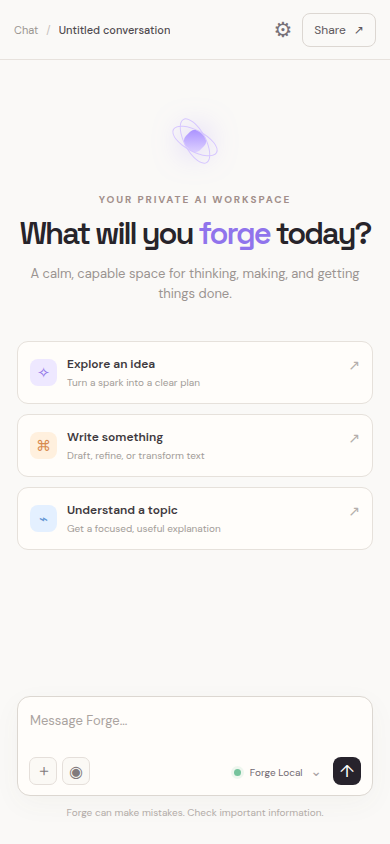
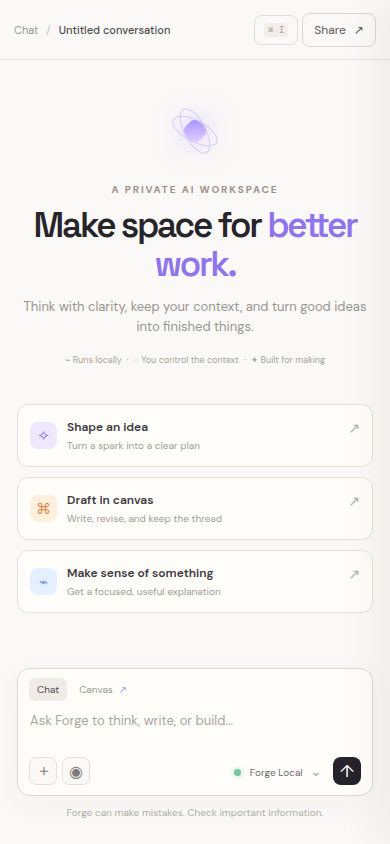
Build workspace-first Forge UX

diff --git a/styles.css b/styles.css
@@ -1,1 +1,4 @@
 :root{--ink:#16151a;--ink-soft:#3e393f;--muted:#8d8785;--line:#e7e2dd;--paper:#faf9f7;--card:#fffdfa;--panel:#242228;--panel-2:#2c2931;--accent:#a58bff;--accent-deep:#8b6fe5;--green:#75c39c;--ease:cubic-bezier(.2,.8,.2,1)}*{box-sizing:border-box}html{background:var(--paper)}body{margin:0;background:var(--paper);color:var(--ink);font-family:'DM Sans',sans-serif;-webkit-font-smoothing:antialiased}button,textarea{font:inherit}button{appearance:none}.app-shell{display:flex;min-height:100vh}.sidebar{width:264px;flex:0 0 264px;background:var(--panel);color:#f4f1f6;padding:22px 14px 16px;display:flex;flex-direction:column}.brand-row{display:flex;align-items:center;gap:10px;padding:0 11px 23px}.brand-name{font-family:'Space Grotesk',sans-serif;font-size:20px;font-weight:700;letter-spacing:-.05em}.brand-badge{font-size:9px;letter-spacing:.12em;color:#9d96a7;border:1px solid #514c59;border-radius:5px;padding:3px 5px;margin-left:auto}.forge-mark{height:25px;width:25px;display:flex;align-items:flex-end;gap:3px}.forge-mark span{display:block;width:6px;border-radius:5px;background:linear-gradient(#d6caff,#8064df)}.forge-mark span:nth-child(1){height:14px}.forge-mark span:nth-child(2){height:23px}.forge-mark span:nth-child(3){height:18px}.new-chat{width:100%;border:1px solid #514c59;background:#302c37;color:#faf8ff;border-radius:9px;padding:11px 12px;text-align:left;font-size:13px;cursor:pointer;box-shadow:0 4px 15px #15141a44;transition:background .18s,transform .18s,border-color .18s}.new-chat:hover{background:#393440;border-color:#6a6275}.new-chat:active{transform:scale(.985)}.plus{font-size:18px;line-height:0;margin-right:8px;color:#cdbdff}.new-chat kbd{float:right;background:#48434d;border:1px solid #5b5563;color:#beb7c8;border-radius:4px;padding:2px 5px;font-size:10px}.side-section{padding:25px 5px 0}.section-label{color:#817b89;text-transform:uppercase;letter-spacing:.13em;font-size:10px;margin:0 8px 9px}.nav-item,.thread-item{width:100%;border:0;background:transparent;color:#aaa4b0;display:flex;align-items:center;gap:10px;text-align:left;border-radius:7px;padding:9px 9px;font-size:13px;cursor:pointer;transition:background .18s,color .18s}.nav-item.active,.nav-item:hover,.thread-item:hover{background:#34303b;color:#fff}.nav-icon{width:18px;color:#b6a2fa;text-align:center;font-size:15px}.nav-count{margin-left:auto;color:#938d9c;font-size:11px}.recent-section{padding-top:27px}.thread-item{font-size:12px;color:#98929e;gap:8px}.thread-title{overflow:hidden;text-overflow:ellipsis;white-space:nowrap}.thread-item.selected{color:#eee9f3}.thread-dot{height:6px;width:6px;flex:0 0 6px;border-radius:50%;background:var(--accent);box-shadow:0 0 0 3px #a58bff1a}.thread-dot.dim{background:#686270;box-shadow:none}.sidebar-bottom{margin-top:auto}.usage-card{padding:13px;margin:0 2px 13px;border:1px solid #3e3945;background:#2a2730;border-radius:9px}.usage-top{display:flex;justify-content:space-between;color:#beb7c8;font-size:11px}.usage-bar{height:5px;background:#44404b;border-radius:8px;margin:9px 0 8px;overflow:hidden}.usage-bar i{display:block;width:18%;height:100%;background:linear-gradient(90deg,#a58bff,#c4b6ff);border-radius:8px}.usage-card small{color:#817b89;font-size:10px}.account{width:100%;border:0;background:transparent;color:#f7f3fa;display:flex;align-items:center;text-align:left;gap:9px;padding:8px;border-radius:8px;cursor:pointer}.account:hover{background:#302d37}.avatar{display:grid;place-items:center;width:28px;height:28px;border-radius:8px;background:#e3d8ff;color:#4d3a79;font-size:10px;font-weight:700}.account strong,.account small{display:block}.account strong{font-size:12px;font-weight:500}.account small{color:#827b8a;font-size:10px;margin-top:2px}.more{margin-left:auto;color:#898290;font-size:11px;letter-spacing:2px}.main-panel{flex:1;min-width:0;background:var(--paper)}.topbar{height:70px;border-bottom:1px solid var(--line);display:flex;align-items:center;justify-content:space-between;padding:0 32px}.breadcrumbs{display:flex;gap:11px;align-items:center;min-width:0;color:#9b9692;font-size:12px}.breadcrumbs strong{font-weight:500;color:#504b50;white-space:nowrap;overflow:hidden;text-overflow:ellipsis}.crumb-separator{color:#c6c0bb}.saved-state{display:inline-flex;align-items:center;gap:5px;color:#b0aaa5;font-size:10px;margin-left:5px;white-space:nowrap}.saved-dot{width:5px;height:5px;border-radius:50%;background:var(--green);box-shadow:0 0 0 3px #75c39c1d}.top-actions{display:flex;align-items:center;gap:7px}.icon-button,.share-button{border:0;background:transparent;color:#777178;cursor:pointer;transition:background .18s,color .18s}.icon-button{font-size:21px;width:31px;height:31px;border-radius:8px}.icon-button:hover{background:#ece9e4;color:#403a40}.share-button{margin-left:8px;border:1px solid #dcd7d2;border-radius:8px;padding:8px 11px;color:#5e585d;font-size:12px}.share-button:hover{background:#fffdfa;border-color:#bdb4ac}.share-button span{margin-left:5px}.chat-stage{max-width:920px;margin:0 auto;padding:98px 40px 42px;min-height:calc(100vh - 70px);display:flex;flex-direction:column;transition:max-width .3s var(--ease)}.welcome-block{text-align:center;transition:opacity .25s,transform .35s var(--ease)}.orbital-mark{width:58px;height:58px;margin:0 auto 23px;position:relative;display:grid;place-items:center}.orb-core{width:20px;height:20px;border-radius:7px;background:linear-gradient(135deg,#a58bff,#e4d9ff);box-shadow:0 0 30px #a58bff99;transform:rotate(45deg)}.orb-ring{position:absolute;border:1px solid #d5c5ff;border-radius:50%;transform:rotate(-28deg)}.ring-one{height:50px;width:22px}.ring-two{height:22px;width:50px;transform:rotate(28deg)}.eyebrow{margin:0 0 10px;color:#a18e8a;font-size:10px;letter-spacing:.19em;font-weight:700}.welcome-block h1{font-family:'Space Grotesk',sans-serif;font-size:43px;letter-spacing:-.065em;margin:0;color:#27242a;font-weight:600}.welcome-block h1 em{font-style:normal;color:#9074ec}.subcopy{font-size:14px;color:#9a9491;margin:14px 0 0}.starter-grid{display:grid;grid-template-columns:repeat(3,1fr);gap:11px;margin-top:55px;transition:opacity .25s,transform .35s var(--ease)}.starter-card{border:1px solid #e6e1db;background:var(--card);border-radius:11px;padding:15px 13px;display:flex;align-items:center;gap:10px;text-align:left;cursor:pointer;transition:transform .18s var(--ease),box-shadow .18s,border-color .18s,background .18s}.starter-card:hover{transform:translateY(-2px);border-color:#cbbaf7;box-shadow:0 10px 22px #443c2e0a;background:#fff}.starter-card:active{transform:translateY(0) scale(.99)}.starter-card strong,.starter-card small{display:block}.starter-card strong{font-size:12px;color:#3e393e;font-weight:600}.starter-card small{font-size:10px;color:#a29c98;margin-top:4px;line-height:1.3}.card-icon{width:27px;height:27px;border-radius:8px;display:grid;place-items:center;font-size:15px;flex:none}.violet{background:#eee8ff;color:#8f72e8}.amber{background:#fff0de;color:#d88b4f}.blue{background:#e4f0ff;color:#6597d5}.arrow{color:#b5afac;margin-left:auto;font-size:14px;align-self:flex-start}.conversation{display:none;flex-direction:column;gap:25px;max-width:760px;width:100%;margin:0 auto 22px;padding-top:20px}.chat-stage.has-messages{padding-top:42px}.chat-stage.has-messages .welcome-block,.chat-stage.has-messages .starter-grid{display:none}.chat-stage.has-messages .conversation{display:flex}.message{display:flex;gap:12px;animation:rise .32s var(--ease) both}.message.user{justify-content:flex-end}.message-avatar{width:28px;height:28px;flex:0 0 28px;border-radius:9px;display:grid;place-items:center;font-size:10px;font-weight:700}.message-avatar.forge{background:#eee8ff;color:#7d62d7}.message-avatar.user{background:#e3d8ff;color:#4d3a79;order:2}.message-body{max-width:75%;font-size:14px;line-height:1.6;color:#454047}.user .message-body{background:#27232c;color:#fff;border-radius:16px 16px 4px 16px;padding:11px 14px}.assistant .message-body{padding-top:3px}.message-label{font-size:10px;font-weight:700;letter-spacing:.08em;text-transform:uppercase;color:#9e9692;margin-bottom:6px}.typing-dots{display:inline-flex;gap:4px;padding:8px 0}.typing-dots i{height:5px;width:5px;border-radius:50%;background:#a58bff;animation:blink 1s infinite}.typing-dots i:nth-child(2){animation-delay:.15s}.typing-dots i:nth-child(3){animation-delay:.3s}@keyframes rise{from{opacity:0;transform:translateY(8px)}to{opacity:1;transform:none}}@keyframes blink{0%,80%,100%{opacity:.25;transform:scale(.8)}40%{opacity:1;transform:scale(1)}}.composer-wrap{margin-top:auto;padding-top:74px}.chat-stage.has-messages .composer-wrap{padding-top:10px}.composer{background:var(--card);border:1px solid #dcd7d1;box-shadow:0 8px 28px #65594c0b;border-radius:13px;padding:14px 14px 10px;transition:border-color .18s,box-shadow .18s}.composer:focus-within{border-color:#b8a4f4;box-shadow:0 0 0 3px #b8a4f425,0 10px 30px #65594c0c}.composer textarea{width:100%;border:0;resize:none;outline:0;min-height:34px;max-height:140px;color:#343037;background:transparent;font-size:13px;line-height:1.5;padding:2px 1px}.composer textarea::placeholder{color:#aaa39f}.composer-toolbar{display:flex;justify-content:space-between;align-items:center;margin-top:8px}.composer-tools,.composer-right{display:flex;align-items:center;gap:5px}.tool-button{height:28px;width:28px;border:1px solid #e5dfda;border-radius:7px;background:#fbf9f5;color:#817a7c;cursor:pointer;transition:background .18s,border-color .18s}.tool-button:hover{background:#f3eee9;border-color:#d7cec6}.tool-hint{font-size:10px;color:#b0a9a5;margin-left:2px}.model-button{border:0;background:transparent;color:#726a72;font-size:11px;cursor:pointer;padding:6px;border-radius:6px}.model-button:hover{background:#f3eee9}.status-dot{display:inline-block;width:7px;height:7px;border-radius:50%;background:var(--green);margin-right:6px;box-shadow:0 0 0 3px #75c39c1f}.status-dot.cloud{background:#9e8ade}.chevron{font-size:14px;margin-left:5px;color:#aaa2a5}.send-button{width:28px;height:28px;border:0;border-radius:8px;background:#27232c;color:#fff;font-size:17px;cursor:pointer;transition:background .18s,transform .18s}.send-button:hover{background:var(--accent-deep)}.send-button:active{transform:scale(.9)}.composer-note{text-align:center;margin:10px 0 0;color:#b3aca8;font-size:10px}.toast{position:fixed;bottom:22px;left:50%;transform:translate(-50%,12px);opacity:0;background:#28242e;color:#fff;padding:9px 13px;border-radius:8px;font-size:12px;transition:.25s;pointer-events:none;box-shadow:0 10px 25px #28242e20}.toast.show{opacity:1;transform:translate(-50%,0)}.model-menu{display:none;position:fixed;right:55px;bottom:94px;width:230px;background:var(--card);border:1px solid #ded8d2;border-radius:10px;padding:9px;box-shadow:0 15px 40px #4c423b20;z-index:5}.model-menu.open{display:block;animation:rise .18s var(--ease)}.model-menu p{color:#a19b96;text-transform:uppercase;letter-spacing:.12em;font-size:9px;margin:5px 8px 8px}.model-option{width:100%;display:flex;align-items:center;gap:9px;border:0;background:transparent;border-radius:7px;padding:9px 7px;text-align:left;color:#5a5459;cursor:pointer}.model-option:hover{background:#f3eee9}.model-option span:nth-child(2){flex:1}.model-option strong,.model-option small{display:block}.model-option strong{font-size:11px;font-weight:600}.model-option small{font-size:9px;color:#aaa29d;margin-top:3px}@media(max-width:800px){.sidebar{width:218px;flex-basis:218px}.chat-stage{padding:68px 24px 30px}.starter-grid{grid-template-columns:1fr}.composer-wrap{padding-top:48px}.welcome-block h1{font-size:35px}.topbar{padding:0 20px}.saved-state{display:none}}@media(max-width:620px){.sidebar{display:none}.topbar{height:60px;padding:0 14px}.breadcrumbs{gap:8px;font-size:11px}.top-actions{gap:2px}.chat-stage{padding:52px 17px 25px;min-height:calc(100vh - 60px)}.welcome-block h1{font-size:31px;line-height:1.1}.subcopy{font-size:13px;line-height:1.5}.starter-grid{margin-top:38px;gap:10px}.starter-card{padding:14px 12px}.composer-wrap{padding-top:45px}.composer{padding:12px 11px 9px}.tool-hint{display:none}.model-button{font-size:10px}.top-actions .icon-button:first-child{display:none}.share-button{margin-left:2px}.chat-stage.has-messages{padding-top:26px}.message-body{max-width:82%;font-size:13px}}
+
+/* Forge UX pass: context-first workspace, subtle motion, and deliberate density. */
+.workspace-switcher{width:100%;display:flex;align-items:center;gap:9px;padding:8px;border:1px solid transparent;background:transparent;color:#f7f3fa;text-align:left;border-radius:9px;cursor:pointer;margin-bottom:10px}.workspace-switcher:hover{background:#302d37;border-color:#3f3a47}.workspace-switcher strong,.workspace-switcher small{display:block}.workspace-switcher strong{font-size:11px;font-weight:600}.workspace-switcher small{font-size:10px;color:#827b8a;margin-top:2px}.workspace-avatar{display:grid;place-items:center;width:27px;height:27px;border-radius:8px;background:#d9ccff;color:#5d448c;font-size:11px;font-weight:700}.switcher-chevron{margin-left:auto;color:#8e8794}.section-heading{display:flex;align-items:center;justify-content:space-between}.tiny-action{border:0;background:transparent;color:#77707f;cursor:pointer;padding:2px 6px}.thread-time{font-size:10px;color:#6f6975;margin-left:auto}.chat-stage{max-width:980px}.welcome-block h1{font-size:48px}.trust-row{display:flex;align-items:center;justify-content:center;gap:9px;margin-top:18px;color:#aaa39e;font-size:10px}.composer-mode-row{display:flex;align-items:center;gap:4px;margin:-3px 0 8px}.mode-pill{border:0;border-radius:6px;background:transparent;color:#9c9490;font-size:10px;padding:5px 8px;cursor:pointer}.mode-pill.selected,.mode-pill:hover{background:#f0ebe6;color:#514b50}.mode-pill span{margin-left:3px;color:#a58bff}.mode-hint{font-size:10px;color:#b5aea9;margin-left:auto}.composer-foot{display:flex;align-items:center;justify-content:center;position:relative}.privacy-note{position:absolute;right:0;bottom:0;color:#a9a19d;font-size:10px;display:flex;align-items:center;gap:5px}.privacy-note .status-dot{width:5px;height:5px;margin-right:0}.context-toggle{border:1px solid #e2ddd7;border-radius:8px;background:transparent;color:#706a6c;font-size:11px;padding:7px 9px;cursor:pointer;display:flex;align-items:center;gap:7px}.context-toggle:hover{background:#fffdfa;border-color:#bdb4ac}.context-toggle kbd{font-size:9px;color:#a69d98;background:#f3eee9;padding:2px 4px;border-radius:3px}.context-drawer{position:fixed;z-index:4;right:0;top:0;width:320px;height:100vh;background:#fffdfa;border-left:1px solid #e2ddd7;box-shadow:-14px 0 35px #443a3210;padding:26px 22px;transform:translateX(100%);transition:transform .35s var(--ease)}.context-drawer.open{transform:translateX(0)}.drawer-header{display:flex;justify-content:space-between;align-items:flex-start;margin-bottom:28px}.drawer-kicker{font-size:9px;color:#a49c97;letter-spacing:.15em;margin:0 0 6px;font-weight:700}.drawer-header h2{font-family:'Space Grotesk',sans-serif;font-size:18px;letter-spacing:-.04em;margin:0;color:#2f2b30}.close-button{border:0;background:#f1ede9;border-radius:8px;width:28px;height:28px;color:#777073;font-size:19px;cursor:pointer}.project-card{display:flex;align-items:center;gap:10px;padding:12px;border:1px solid #e7e1db;border-radius:10px;background:#fbf9f6}.project-icon{width:30px;height:30px;border-radius:8px;display:grid;place-items:center;background:#eee8ff;color:#8f72e8}.project-card p{margin:0;color:#a29a95;font-size:10px}.project-card strong,.project-card small{display:block}.project-card strong{font-size:12px;margin:2px 0;color:#494349}.project-card small{font-size:10px;color:#a29b97}.project-card button{margin-left:auto;border:0;background:transparent;color:#a29f9c;cursor:pointer}.drawer-section{padding-top:27px}.drawer-section-heading{display:flex;justify-content:space-between;align-items:center;margin-bottom:9px;color:#71696c;font-size:11px;font-weight:600}.drawer-section-heading button{border:0;background:transparent;color:#9375e6;font-size:10px;cursor:pointer}.context-file{display:flex;align-items:center;gap:9px;padding:9px 0;border-bottom:1px solid #eee9e4}.file-icon{display:grid;place-items:center;width:25px;height:25px;border-radius:6px;font-size:10px}.file-icon.html{background:#fff0de;color:#d88b4f}.file-icon.css{background:#e4f0ff;color:#6597d5}.context-file strong,.context-file small{display:block}.context-file strong{font-size:11px;color:#504a4e}.context-file small{font-size:9px;color:#aaa29d;margin-top:2px}.file-check{margin-left:auto;color:#75b28e;font-size:12px}.assistant-card{display:flex;align-items:center;gap:9px;padding:10px;border:1px solid #e7e1db;border-radius:9px}.assistant-avatar{width:26px;height:26px;border-radius:7px;display:grid;place-items:center;background:#eee8ff;color:#8f72e8}.assistant-card strong,.assistant-card small{display:block}.assistant-card strong{font-size:11px;color:#504a4e}.assistant-card small{font-size:9px;color:#aaa29d;margin-top:3px}.assistant-card .status-dot{margin-left:auto;width:6px;height:6px}.drawer-tip{display:flex;gap:9px;padding:12px;margin-top:29px;border-radius:9px;background:#f3efff;color:#7f6bc2}.drawer-tip>span{font-size:14px}.drawer-tip p{font-size:10px;line-height:1.45;color:#867b9e;margin:0}.drawer-tip strong{color:#6653aa}.command-palette{position:fixed;z-index:8;inset:0;background:#24222866;display:none;place-items:start center;padding-top:15vh;backdrop-filter:blur(5px)}.command-palette.open{display:grid}.palette-box{width:min(560px,calc(100vw - 32px));background:#fffdfa;border:1px solid #e0dad4;border-radius:14px;box-shadow:0 25px 80px #28232d35;overflow:hidden;animation:rise .2s var(--ease)}.palette-search{display:flex;align-items:center;gap:10px;padding:16px 18px;border-bottom:1px solid #eee9e4;color:#a49b96}.palette-search span{font-size:20px}.palette-search input{flex:1;border:0;outline:0;background:transparent;font-size:14px;color:#3a353a}.palette-group{padding:13px}.palette-group>span{display:block;margin:2px 9px 8px;text-transform:uppercase;letter-spacing:.12em;font-size:9px;color:#a39b96}.palette-group button{width:100%;display:flex;justify-content:space-between;border:0;background:transparent;border-radius:8px;text-align:left;padding:10px;color:#534d52;font-size:12px;cursor:pointer}.palette-group button:hover{background:#f3eee9}.palette-group kbd{font-size:10px;color:#a8a09c}.palette-footer{margin:0;padding:10px 18px;border-top:1px solid #eee9e4;color:#aaa19d;font-size:10px}@media(max-width:900px){.context-toggle span{display:none}.context-toggle{padding:7px 9px}.context-drawer{width:310px}}@media(max-width:620px){.welcome-block h1{font-size:35px}.trust-row{gap:5px;font-size:9px;flex-wrap:wrap}.privacy-note{display:none}.mode-hint{display:none}.context-drawer{width:100%;max-width:360px}.chat-stage{padding-top:42px}.top-actions .context-toggle{display:flex}.top-actions .icon-button{display:none}}

diff --git a/index.html b/index.html
@@ -5,78 +5,35 @@
     <meta name="viewport" content="width=device-width, initial-scale=1.0" />
     <meta name="theme-color" content="#242228" />
     <title>Forge — local intelligence workspace</title>
-    <link rel="preconnect" href="https://fonts.googleapis.com" />
-    <link rel="preconnect" href="https://fonts.gstatic.com" crossorigin />
-    <link href="https://fonts.googleapis.com/css2?family=DM+Sans:wght@400;500;600;700&family=Space+Grotesk:wght@500;600;700&display=swap" rel="stylesheet" />
-    <link rel="stylesheet" href="styles.css" />
+    <link rel="preconnect" href="https://fonts.googleapis.com" /><link rel="preconnect" href="https://fonts.gstatic.com" crossorigin />
+    <link href="https://fonts.googleapis.com/css2?family=DM+Sans:wght@400;500;600;700&family=Space+Grotesk:wght@500;600;700&display=swap" rel="stylesheet" /><link rel="stylesheet" href="styles.css" />
   </head>
   <body>
     <div class="app-shell">
       <aside class="sidebar" aria-label="Forge navigation">
-        <div class="brand-row">
-          <div class="forge-mark" aria-hidden="true"><span></span><span></span><span></span></div>
-          <span class="brand-name">Forge</span>
-          <span class="brand-badge">LOCAL</span>
-        </div>
-
+        <div class="brand-row"><div class="forge-mark" aria-hidden="true"><span></span><span></span><span></span></div><span class="brand-name">Forge</span><span class="brand-badge">LOCAL</span></div>
+        <button class="workspace-switcher" type="button"><span class="workspace-avatar">D</span><span><strong>Davidson’s workspace</strong><small>Personal · Local</small></span><span class="switcher-chevron">⌄</span></button>
         <button class="new-chat" id="newChat" type="button"><span class="plus">+</span> New thread <kbd>⌘ K</kbd></button>
-
-        <div class="side-section">
-          <p class="section-label">Workspace</p>
-          <button class="nav-item active" type="button"><span class="nav-icon">◈</span> Chat <span class="nav-count">1</span></button>
-          <button class="nav-item" type="button"><span class="nav-icon">✦</span> Assistants</button>
-          <button class="nav-item" type="button"><span class="nav-icon">▣</span> Library</button>
-        </div>
-
-        <div class="side-section recent-section">
-          <p class="section-label">Recent threads</p>
-          <button class="thread-item selected" type="button"><span class="thread-dot"></span> <span class="thread-title">Untitled conversation</span></button>
-          <button class="thread-item" type="button"><span class="thread-dot dim"></span> <span class="thread-title">Product notes</span></button>
-          <button class="thread-item" type="button"><span class="thread-dot dim"></span> <span class="thread-title">Research sprint</span></button>
-        </div>
-
-        <div class="sidebar-bottom">
-          <div class="usage-card"><div class="usage-top"><span>Local storage</span><span>18%</span></div><div class="usage-bar"><i></i></div><small>Models stay on this device.</small></div>
-          <button class="account" type="button"><span class="avatar">DK</span><span><strong>Davidson</strong><small>Personal workspace</small></span><span class="more">•••</span></button>
-        </div>
+        <div class="side-section"><p class="section-label">Workspace</p><button class="nav-item active" type="button"><span class="nav-icon">◈</span> Chat <span class="nav-count">1</span></button><button class="nav-item" type="button"><span class="nav-icon">▦</span> Projects</button><button class="nav-item" type="button"><span class="nav-icon">✦</span> Assistants</button><button class="nav-item" type="button"><span class="nav-icon">◫</span> Model hub</button></div>
+        <div class="side-section recent-section"><div class="section-heading"><p class="section-label">Recent threads</p><button class="tiny-action" type="button">•••</button></div><button class="thread-item selected" type="button"><span class="thread-dot"></span><span class="thread-title">Untitled conversation</span><span class="thread-time">now</span></button><button class="thread-item" type="button"><span class="thread-dot dim"></span><span class="thread-title">Product notes</span><span class="thread-time">2h</span></button><button class="thread-item" type="button"><span class="thread-dot dim"></span><span class="thread-title">Research sprint</span><span class="thread-time">yesterday</span></button></div>
+        <div class="sidebar-bottom"><div class="usage-card"><div class="usage-top"><span>Local storage</span><span>18%</span></div><div class="usage-bar"><i></i></div><small>Models stay on this device.</small></div><button class="account" type="button"><span class="avatar">DK</span><span><strong>Davidson</strong><small>Personal workspace</small></span><span class="more">•••</span></button></div>
       </aside>
 
       <main class="main-panel">
-        <header class="topbar">
-          <div class="breadcrumbs"><span>Chat</span><span class="crumb-separator">/</span><strong id="threadName">Untitled conversation</strong><span class="saved-state"><span class="saved-dot"></span> Saved locally</span></div>
-          <div class="top-actions"><button class="icon-button" type="button" aria-label="Search">⌕</button><button class="icon-button" type="button" aria-label="Settings">⚙</button><button class="share-button" type="button">Share <span>↗</span></button></div>
-        </header>
+        <header class="topbar"><div class="breadcrumbs"><span>Chat</span><span class="crumb-separator">/</span><strong id="threadName">Untitled conversation</strong><span class="saved-state"><span class="saved-dot"></span> Saved locally</span></div><div class="top-actions"><button class="context-toggle" id="contextToggle" type="button"><span>Context</span><kbd>⌘ I</kbd></button><button class="icon-button" id="searchButton" type="button" aria-label="Search">⌕</button><button class="icon-button" type="button" aria-label="Settings">⚙</button><button class="share-button" type="button">Share <span>↗</span></button></div></header>
 
         <section class="chat-stage" id="chatStage">
-          <div class="welcome-block" id="welcomeBlock">
-            <div class="orbital-mark" aria-hidden="true"><div class="orb-core"></div><div class="orb-ring ring-one"></div><div class="orb-ring ring-two"></div></div>
-            <p class="eyebrow">YOUR PRIVATE AI WORKSPACE</p>
-            <h1>What will you <em>forge</em> today?</h1>
-            <p class="subcopy">A calm, capable space for thinking, making, and getting things done.</p>
-          </div>
-
-          <div class="starter-grid" id="starterGrid">
-            <button class="starter-card" type="button"><span class="card-icon violet">✧</span><span><strong>Explore an idea</strong><small>Turn a spark into a clear plan</small></span><span class="arrow">↗</span></button>
-            <button class="starter-card" type="button"><span class="card-icon amber">⌘</span><span><strong>Write something</strong><small>Draft, refine, or transform text</small></span><span class="arrow">↗</span></button>
-            <button class="starter-card" type="button"><span class="card-icon blue">⌁</span><span><strong>Understand a topic</strong><small>Get a focused, useful explanation</small></span><span class="arrow">↗</span></button>
-          </div>
-
+          <div class="welcome-block" id="welcomeBlock"><div class="orbital-mark" aria-hidden="true"><div class="orb-core"></div><div class="orb-ring ring-one"></div><div class="orb-ring ring-two"></div></div><p class="eyebrow">A PRIVATE AI WORKSPACE</p><h1>Make space for <em>better work.</em></h1><p class="subcopy">Think with clarity, keep your context, and turn good ideas into finished things.</p><div class="trust-row"><span>⌁ Runs locally</span><span>·</span><span>◌ You control the context</span><span>·</span><span>✦ Built for making</span></div></div>
+          <div class="starter-grid" id="starterGrid"><button class="starter-card" type="button"><span class="card-icon violet">✧</span><span><strong>Shape an idea</strong><small>Turn a spark into a clear plan</small></span><span class="arrow">↗</span></button><button class="starter-card" type="button"><span class="card-icon amber">⌘</span><span><strong>Draft in canvas</strong><small>Write, revise, and keep the thread</small></span><span class="arrow">↗</span></button><button class="starter-card" type="button"><span class="card-icon blue">⌁</span><span><strong>Make sense of something</strong><small>Get a focused, useful explanation</small></span><span class="arrow">↗</span></button></div>
           <div class="conversation" id="conversation" aria-live="polite"></div>
-
-          <div class="composer-wrap">
-            <div class="composer" id="composerBox">
-              <textarea id="prompt" rows="1" placeholder="Message Forge..." aria-label="Message Forge"></textarea>
-              <div class="composer-toolbar">
-                <div class="composer-tools"><button class="tool-button" type="button" title="Attach file" aria-label="Attach file">＋</button><button class="tool-button" type="button" title="Voice input" aria-label="Voice input">◉</button><span class="tool-hint">Enter to send · Shift + Enter for a new line</span></div>
-                <div class="composer-right"><button class="model-button" id="modelButton" type="button"><span class="status-dot"></span> Forge Local <span class="chevron">⌄</span></button><button class="send-button" id="sendButton" type="button" aria-label="Send message">↑</button></div>
-              </div>
-            </div>
-            <p class="composer-note">Forge can make mistakes. Check important information.</p>
-          </div>
+          <div class="composer-wrap"><div class="composer" id="composerBox"><div class="composer-mode-row"><button class="mode-pill selected" type="button">Chat</button><button class="mode-pill" id="canvasMode" type="button">Canvas <span>↗</span></button><span class="mode-hint">Forge adapts to your task</span></div><textarea id="prompt" rows="1" placeholder="Ask Forge to think, write, or build..." aria-label="Message Forge"></textarea><div class="composer-toolbar"><div class="composer-tools"><button class="tool-button" id="attachButton" type="button" title="Add context" aria-label="Add context">＋</button><button class="tool-button" type="button" title="Voice input" aria-label="Voice input">◉</button><span class="tool-hint">Enter to send · Shift + Enter for a new line</span></div><div class="composer-right"><button class="model-button" id="modelButton" type="button"><span class="status-dot"></span> Forge Local <span class="chevron">⌄</span></button><button class="send-button" id="sendButton" type="button" aria-label="Send message">↑</button></div></div></div><div class="composer-foot"><p class="composer-note">Forge can make mistakes. Check important information.</p><div class="privacy-note"><span class="status-dot"></span>Private by default</div></div></div>
         </section>
       </main>
+
+      <aside class="context-drawer" id="contextDrawer" aria-label="Thread context"><div class="drawer-header"><div><p class="drawer-kicker">THREAD CONTEXT</p><h2>Untitled conversation</h2></div><button class="close-button" id="closeContext" type="button" aria-label="Close context">×</button></div><div class="project-card"><div class="project-icon">▦</div><div><p>Project</p><strong>Websat / Forge</strong><small>3 files · Local workspace</small></div><button type="button">↗</button></div><div class="drawer-section"><div class="drawer-section-heading"><span>Attached context</span><button type="button" id="addContext">+ Add</button></div><div class="context-file"><span class="file-icon html">‹/›</span><span><strong>index.html</strong><small>Interface structure</small></span><span class="file-check">✓</span></div><div class="context-file"><span class="file-icon css">✦</span><span><strong>styles.css</strong><small>Visual system</small></span><span class="file-check">✓</span></div></div><div class="drawer-section"><div class="drawer-section-heading"><span>Active assistant</span><button type="button">Edit</button></div><div class="assistant-card"><div class="assistant-avatar">✦</div><div><strong>Forge Local</strong><small>Clear, careful, action-oriented</small></div><span class="status-dot"></span></div></div><div class="drawer-tip"><span>✦</span><p><strong>Context is a feature.</strong><br />Keep the files, decisions, and intent close to the work.</p></div></aside>
     </div>
 
+    <div class="command-palette" id="commandPalette" role="dialog" aria-modal="true" aria-label="Search Forge"><div class="palette-box"><div class="palette-search"><span>⌕</span><input id="paletteInput" placeholder="Search threads, projects, and models..." /></div><div class="palette-group"><span>Quick actions</span><button type="button" data-action="new">＋ New thread <kbd>⌘ K</kbd></button><button type="button" data-action="context">▱ Open thread context <kbd>⌘ I</kbd></button><button type="button" data-action="canvas">✦ Start a canvas <kbd>⌘ ↵</kbd></button></div><p class="palette-footer">Esc to close · Search is local to this workspace</p></div></div>
     <div class="toast" id="toast" role="status">New thread ready</div>
     <div class="model-menu" id="modelMenu" role="menu"><p>Choose a model</p><button class="model-option chosen" type="button" role="menuitem"><span class="status-dot"></span><span><strong>Forge Local</strong><small>Fast · private · on device</small></span><span>✓</span></button><button class="model-option" type="button" role="menuitem"><span class="status-dot cloud"></span><span><strong>Forge Reasoning</strong><small>Deeper thinking · local</small></span></button></div>
     <script src="app.js"></script>

diff --git a/app.js b/app.js
@@ -6,122 +6,28 @@ const chatStage = document.getElementById('chatStage');
 const conversation = document.getElementById('conversation');
 const threadName = document.getElementById('threadName');
 const starterGrid = document.getElementById('starterGrid');
+const contextDrawer = document.getElementById('contextDrawer');
+const commandPalette = document.getElementById('commandPalette');
+const paletteInput = document.getElementById('paletteInput');
 
-function showToast(message) {
-  toast.textContent = message;
-  toast.classList.add('show');
-  window.clearTimeout(window.__toastTimer);
-  window.__toastTimer = window.setTimeout(() => toast.classList.remove('show'), 2200);
-}
+function showToast(message){toast.textContent=message;toast.classList.add('show');clearTimeout(window.__toastTimer);window.__toastTimer=setTimeout(()=>toast.classList.remove('show'),2200)}
+function resizeComposer(){promptBox.style.height='auto';promptBox.style.height=`${Math.min(promptBox.scrollHeight,140)}px`}
+function toggleContext(force){contextDrawer.classList.toggle('open',force ?? !contextDrawer.classList.contains('open'))}
+function addMessage(kind,content,label){const message=document.createElement('div');message.className=`message ${kind}`;message.innerHTML=kind==='user'?`<div class="message-avatar user">DK</div><div class="message-body">${content}</div>`:`<div class="message-avatar forge">✦</div><div class="message-body"><div class="message-label">${label||'Forge Local'}</div>${content}</div>`;conversation.appendChild(message);conversation.scrollIntoView({behavior:'smooth',block:'end'})}
+function simulateResponse(text){const typing=document.createElement('div');typing.className='message assistant';typing.innerHTML='<div class="message-avatar forge">✦</div><div class="message-body"><div class="message-label">Forge Local</div><span class="typing-dots"><i></i><i></i><i></i></span></div>';conversation.appendChild(typing);setTimeout(()=>{typing.remove();const lower=text.toLowerCase();const response=lower.includes('canvas')||lower.includes('draft')?'I’ve opened a focused work surface for this. We can keep the conversation on the left and shape the actual draft on the right — without losing the decisions we make here.':lower.includes('idea')||lower.includes('plan')?'Let’s give that spark a shape. Start with the outcome, name the constraint, and choose one small experiment you can finish today. I’ll keep the working context attached.':'I’m ready to work through that with you. This local preview simulates the complete flow so you can evaluate the product experience before connecting a model.';addMessage('assistant',response)},750)}
+function sendMessage(){const text=promptBox.value.trim();if(!text){showToast('Write a message to begin');promptBox.focus();return}if(!chatStage.classList.contains('has-messages')){chatStage.classList.add('has-messages');starterGrid.setAttribute('aria-hidden','true');threadName.textContent=text.length>28?`${text.slice(0,28)}…`:text}addMessage('user',text.replace(/[&<>]/g,c=>({'&':'&amp;','<':'&lt;','>':'&gt;'}[c])));promptBox.value='';resizeComposer();simulateResponse(text)}
+function openPalette(){commandPalette.classList.add('open');paletteInput.value='';setTimeout(()=>paletteInput.focus(),50)}
+function closePalette(){commandPalette.classList.remove('open')}
 
-function resizeComposer() {
-  promptBox.style.height = 'auto';
-  promptBox.style.height = `${Math.min(promptBox.scrollHeight, 140)}px`;
-}
-
-function addMessage(kind, content, label) {
-  const message = document.createElement('div');
-  message.className = `message ${kind}`;
-  message.innerHTML = kind === 'user'
-    ? `<div class="message-avatar user">DK</div><div class="message-body">${content}</div>`
-    : `<div class="message-avatar forge">✦</div><div class="message-body"><div class="message-label">${label || 'Forge Local'}</div>${content}</div>`;
-  conversation.appendChild(message);
-  conversation.scrollIntoView({ behavior: 'smooth', block: 'end' });
-}
-
-function simulateResponse(text) {
-  const typing = document.createElement('div');
-  typing.className = 'message assistant';
-  typing.innerHTML = '<div class="message-avatar forge">✦</div><div class="message-body"><div class="message-label">Forge Local</div><span class="typing-dots"><i></i><i></i><i></i></span></div>';
-  conversation.appendChild(typing);
-  setTimeout(() => {
-    typing.remove();
-    const lower = text.toLowerCase();
-    const response = lower.includes('idea')
-      ? 'Let’s give that spark a shape. Start with the outcome, name the constraint, and choose one small experiment you can finish today.'
-      : lower.includes('write')
-        ? 'A good first pass is ready. Tell me the audience and the feeling you want the piece to leave behind, and we can sharpen it together.'
-        : 'I’m ready to work through that with you. This local preview simulates the conversation surface so you can evaluate the flow before connecting a model.';
-    addMessage('assistant', response);
-  }, 750);
-}
-
-function sendMessage() {
-  const text = promptBox.value.trim();
-  if (!text) {
-    showToast('Write a message to begin');
-    promptBox.focus();
-    return;
-  }
-  if (!chatStage.classList.contains('has-messages')) {
-    chatStage.classList.add('has-messages');
-    starterGrid.setAttribute('aria-hidden', 'true');
-    threadName.textContent = text.length > 28 ? `${text.slice(0, 28)}…` : text;
-  }
-  addMessage('user', text.replace(/[&<>]/g, (char) => ({ '&': '&amp;', '<': '&lt;', '>': '&gt;' }[char])));
-  promptBox.value = '';
-  resizeComposer();
-  simulateResponse(text);
-}
-
-document.getElementById('newChat').addEventListener('click', () => {
-  promptBox.value = '';
-  conversation.innerHTML = '';
-  chatStage.classList.remove('has-messages');
-  starterGrid.removeAttribute('aria-hidden');
-  threadName.textContent = 'Untitled conversation';
-  resizeComposer();
-  promptBox.focus();
-  showToast('New thread ready');
-});
-
-document.querySelectorAll('.starter-card').forEach((card) => {
-  card.addEventListener('click', () => {
-    promptBox.value = `${card.querySelector('strong').textContent}: `;
-    resizeComposer();
-    promptBox.focus();
-  });
-});
-
-document.getElementById('sendButton').addEventListener('click', sendMessage);
-promptBox.addEventListener('input', resizeComposer);
-promptBox.addEventListener('keydown', (event) => {
-  if (event.key === 'Enter' && !event.shiftKey) {
-    event.preventDefault();
-    sendMessage();
-  }
-});
-
-modelButton.addEventListener('click', (event) => {
-  event.stopPropagation();
-  modelMenu.classList.toggle('open');
-});
-
-document.querySelectorAll('.model-option').forEach((option) => {
-  option.addEventListener('click', () => {
-    const name = option.querySelector('strong').textContent;
-    modelButton.innerHTML = `<span class="status-dot"></span> ${name} <span class="chevron">⌄</span>`;
-    document.querySelectorAll('.model-option').forEach((item) => item.classList.remove('chosen'));
-    option.classList.add('chosen');
-    modelMenu.classList.remove('open');
-    showToast(`${name} selected`);
-  });
-});
-
-document.querySelectorAll('.nav-item').forEach((item) => {
-  item.addEventListener('click', () => {
-    document.querySelectorAll('.nav-item').forEach((nav) => nav.classList.remove('active'));
-    item.classList.add('active');
-    showToast(`${item.textContent.trim()} is a UI preview`);
-  });
-});
-
-document.addEventListener('click', () => modelMenu.classList.remove('open'));
-document.addEventListener('keydown', (event) => {
-  if ((event.metaKey || event.ctrlKey) && event.key.toLowerCase() === 'k') {
-    event.preventDefault();
-    promptBox.focus();
-  }
-  if (event.key === 'Escape') modelMenu.classList.remove('open');
-});
-resizeComposer();
+document.getElementById('newChat').addEventListener('click',()=>{promptBox.value='';conversation.innerHTML='';chatStage.classList.remove('has-messages');starterGrid.removeAttribute('aria-hidden');threadName.textContent='Untitled conversation';resizeComposer();promptBox.focus();showToast('New thread ready')});
+document.querySelectorAll('.starter-card').forEach(card=>card.addEventListener('click',()=>{promptBox.value=card.querySelector('strong').textContent+': ';resizeComposer();promptBox.focus()}));
+document.getElementById('sendButton').addEventListener('click',sendMessage);
+promptBox.addEventListener('input',resizeComposer);promptBox.addEventListener('keydown',e=>{if(e.key==='Enter'&&!e.shiftKey){e.preventDefault();sendMessage()}});
+document.getElementById('contextToggle').addEventListener('click',()=>toggleContext());document.getElementById('closeContext').addEventListener('click',()=>toggleContext(false));document.getElementById('addContext').addEventListener('click',()=>showToast('Context picker is ready for local files'));
+document.getElementById('attachButton').addEventListener('click',()=>{toggleContext(true);showToast('Choose context from this thread')});
+document.getElementById('canvasMode').addEventListener('click',()=>{promptBox.value='Open a canvas for ';resizeComposer();promptBox.focus();showToast('Canvas mode selected')});
+document.getElementById('searchButton').addEventListener('click',openPalette);
+modelButton.addEventListener('click',e=>{e.stopPropagation();modelMenu.classList.toggle('open')});document.querySelectorAll('.model-option').forEach(option=>option.addEventListener('click',()=>{const name=option.querySelector('strong').textContent;modelButton.innerHTML=`<span class="status-dot"></span> ${name} <span class="chevron">⌄</span>`;document.querySelectorAll('.model-option').forEach(item=>item.classList.remove('chosen'));option.classList.add('chosen');modelMenu.classList.remove('open');showToast(`${name} selected`)}));
+document.querySelectorAll('.nav-item').forEach(item=>item.addEventListener('click',()=>{document.querySelectorAll('.nav-item').forEach(nav=>nav.classList.remove('active'));item.classList.add('active');showToast(`${item.textContent.trim()} is ready for your workspace`)}));
+document.querySelectorAll('[data-action]').forEach(item=>item.addEventListener('click',()=>{const action=item.dataset.action;closePalette();if(action==='new')document.getElementById('newChat').click();if(action==='context')toggleContext(true);if(action==='canvas')document.getElementById('canvasMode').click()}));
+commandPalette.addEventListener('click',e=>{if(e.target===commandPalette)closePalette()});document.addEventListener('click',()=>modelMenu.classList.remove('open'));document.addEventListener('keydown',e=>{if((e.metaKey||e.ctrlKey)&&e.key.toLowerCase()==='k'){e.preventDefault();document.getElementById('newChat').click()}if((e.metaKey||e.ctrlKey)&&e.key.toLowerCase()==='i'){e.preventDefault();toggleContext()}if((e.metaKey||e.ctrlKey)&&e.key==='Enter'){e.preventDefault();document.getElementById('canvasMode').click()}if(e.key==='Escape'){closePalette();modelMenu.classList.remove('open');toggleContext(false)}});resizeComposer();

diff --git a/README.md b/README.md
@@ -1,6 +1,8 @@
 # Websat
 
-A lightweight UI-only recreation inspired by the Jan open-source AI workspace, rebranded as **Forge**.
+A lightweight UI-only recreation inspired by ChatGPT Canvas and the Jan open-source AI workspace, rebranded as **Forge**.
+
+The current UX pass is workspace-first: Projects, Assistants, Model Hub, local thread context, a command palette, Canvas mode, and simulated local responses are represented without backend or model calls.
 
 ## Run locally
 
